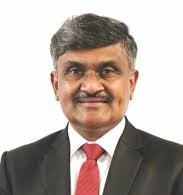
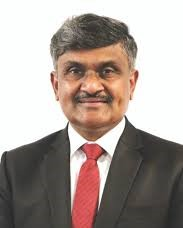
5 live 20225:1207

diff --git a/js/home.js b/js/home.js
@@ -106,7 +106,7 @@ export function loadHome() {
                         </p>
                     </div>
                     <p style="margin-top:5px;">
-                        CWAS has been working on urban water and sanitation related action research since 2009. CWAS began its work when CEPT University received a grant from the Gates Foundation for Performance Assessment System (PAS) Project. Over the past decade, the project has developed an online system, methods, and processes for performance assessment and improvement for urban water supply and sanitation in India. In 2009, this system was initiated in 400 cities in two states of India. Today it is used by 1000+ Indian cities in four states of India. It is one of the largest Urban Water and Sanitation database in India and is used by various governments and institutions.
+                        CWAS has been working on urban water and sanitation related action research since 2009. CWAS began its work when CEPT University received a grant from the Gates Foundation for Performance Assessment System (PAS) Project. Over the past decade, the project has developed an online system, methods, and processes for performance assessment and improvement for urban water supply and sanitation in India. In 2009, this system was initiated in 400+ cities in two states of India. Over these years, the PAS system has been used by 900+ Indian cities across six states and SMART cities. PAS system has the repository of 1800+ cities and it is one of the largest Urban Water and Sanitation database in India which is used by various governments and institutions.
                     </p>
                 </section>
             `;
